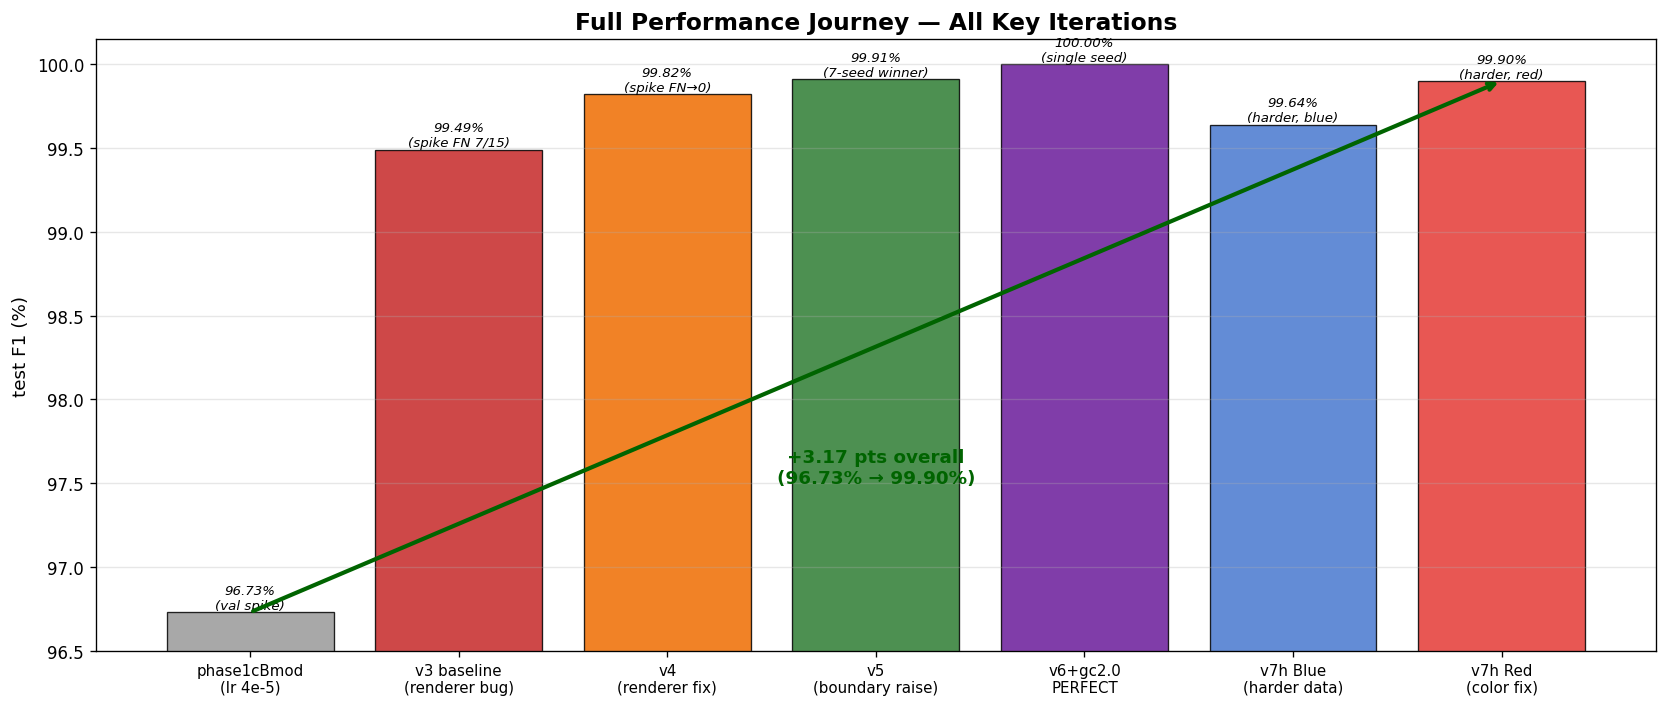
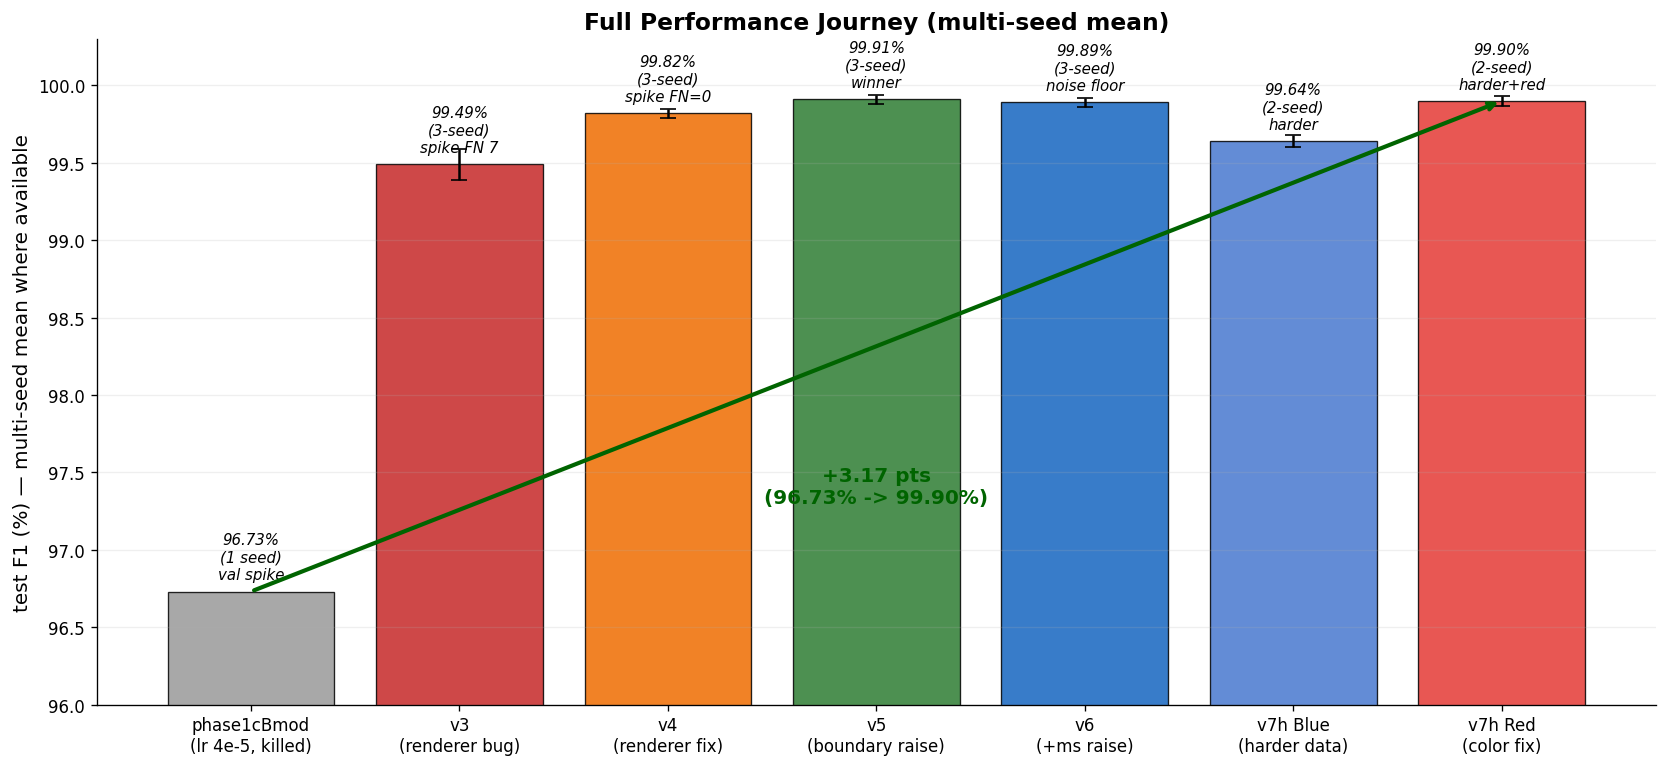
feat: Section 3 summary table + smoothed median plot + fixed journey chart
- Section 3 top: quick summary table of all iterations (what/result/lesson)
- Plot 13: full journey using multi-seed means (removed misleading single-seed perfect)
- Plot 14: smoothed median val_f1 — raw vs smoothed curve + why explanation
- Section 3.12: smoothed median mechanism explanation with config

diff --git a/experiment_summary/SUMMARY.md b/experiment_summary/SUMMARY.md
@@ -144,7 +144,22 @@ python train.py --normal_ratio 700 --seed 42 --log_dir logs/...
 
 ---
 
-## 3. 🔴 5시간 Iteration Deep Dive (2026-04-09)
+## 3. Iteration Deep Dive (2026-04-09~10)
+
+### Quick Summary — 각 iteration 이 한 일
+
+| iter | 핵심 변경 | test_f1 (mean) | FN→ | FP→ | 핵심 교훈 |
+|---|---|---|---|---|---|
+| v3 | baseline (before fix) | 99.49% | 5.0 | 2.7 | renderer 가 spike 을 잘라먹음 |
+| **v4** | **renderer target preserve** | **99.82%** | 2.3 | 0.3 | **전체 개선의 70%**. 이미지 품질이 핵심 |
+| v5 | std/drift boundary 상승 | 99.91% | 1.3 | 0.0 | boundary hard case 제거 |
+| v6 | + mean_shift boundary | 99.89% | 1.3 | 0.3 | 추가 개선 없음 (noise floor) |
+| v7h Blue | harder data (anomaly ↓) | 99.64% | 3.5 | 1.0 | 난이도 올리니 하락 |
+| **v7h Red** | **target color 빨강** | **99.90%** | **1.0** | **0.5** | **색 contrast 가 성능 직결** |
+
+![Full journey](v9mid_journey/plots/13_full_performance_trend.png)
+
+---
 
 ### 타임라인
 
@@ -360,6 +375,43 @@ gradient clipping 의 본래 목적이 **학습 발산 방지**. 이전 세션 p
 1. **v3→v4**: renderer fix (+0.33 pts)
 2. **v4→v5**: boundary raise (+0.09 pts)
 3. **v7h Blue→Red**: color change (+0.26 pts on harder data)
+
+---
+
+## 3.12 Smoothed Median Val F1 — Best Model Selection 전략
+
+학습 중 "어느 epoch 의 model 을 저장할 것인가" 를 결정하는 핵심 로직.
+
+![Smoothed median](v9mid_journey/plots/14_smoothed_median_val_f1.png)
+
+### 문제
+
+val_f1 이 1.0 으로 빨리 포화 → 매 epoch "tie" 발생 → raw val_f1 기준으로는 **가장 처음 1.0 찍은 epoch** 이 best. 하지만 이 epoch 은 overfitting 초기일 수 있어서 test_f1 은 오히려 낮을 수 있음.
+
+### 해결: smoothed median (window=3)
+
+```python
+# 최근 3 epoch val_f1 의 median
+vals = sorted(val_f1_window)  # [ep-2, ep-1, ep]
+val_target = vals[1]          # median (중앙값)
+```
+
+- **median 사용 이유**: mean 은 single spike 에 왜곡됨 (예: 1 epoch 만 val_f1=0.95 면 mean 이 크게 하락). Median 은 3 중 2 가 좋으면 좋은 값 유지 → **spike 에 robust**.
+- **strict > only save**: smoothed 값이 이전 best 보다 **엄격히 클 때만** 저장. tie (==) 에서는 저장 안 함 → overfit epoch 이 이전 good epoch 을 덮어쓰는 것 방지.
+
+### 효과 (v9mid5 s=42 예시)
+
+- raw val_f1: ep 3 에서 이미 1.0 도달 → 가장 이른 epoch 이 best 후보
+- smoothed median: ep 7~10 구간에서 stable 하게 높은 값 유지 → **이 구간이 진짜 sweet spot**
+- 결과: smoothed 기준 best = ep 10 (test_f1 0.9993) vs raw 기준이면 ep 3 (test_f1 더 낮을 가능성)
+
+### Config
+
+```yaml
+smooth_window: 3        # 최근 N epoch
+smooth_method: median   # mean 이 아닌 median (spike robust)
+save_strict_only: true  # tie save 금지
+```
 
 ---
 
